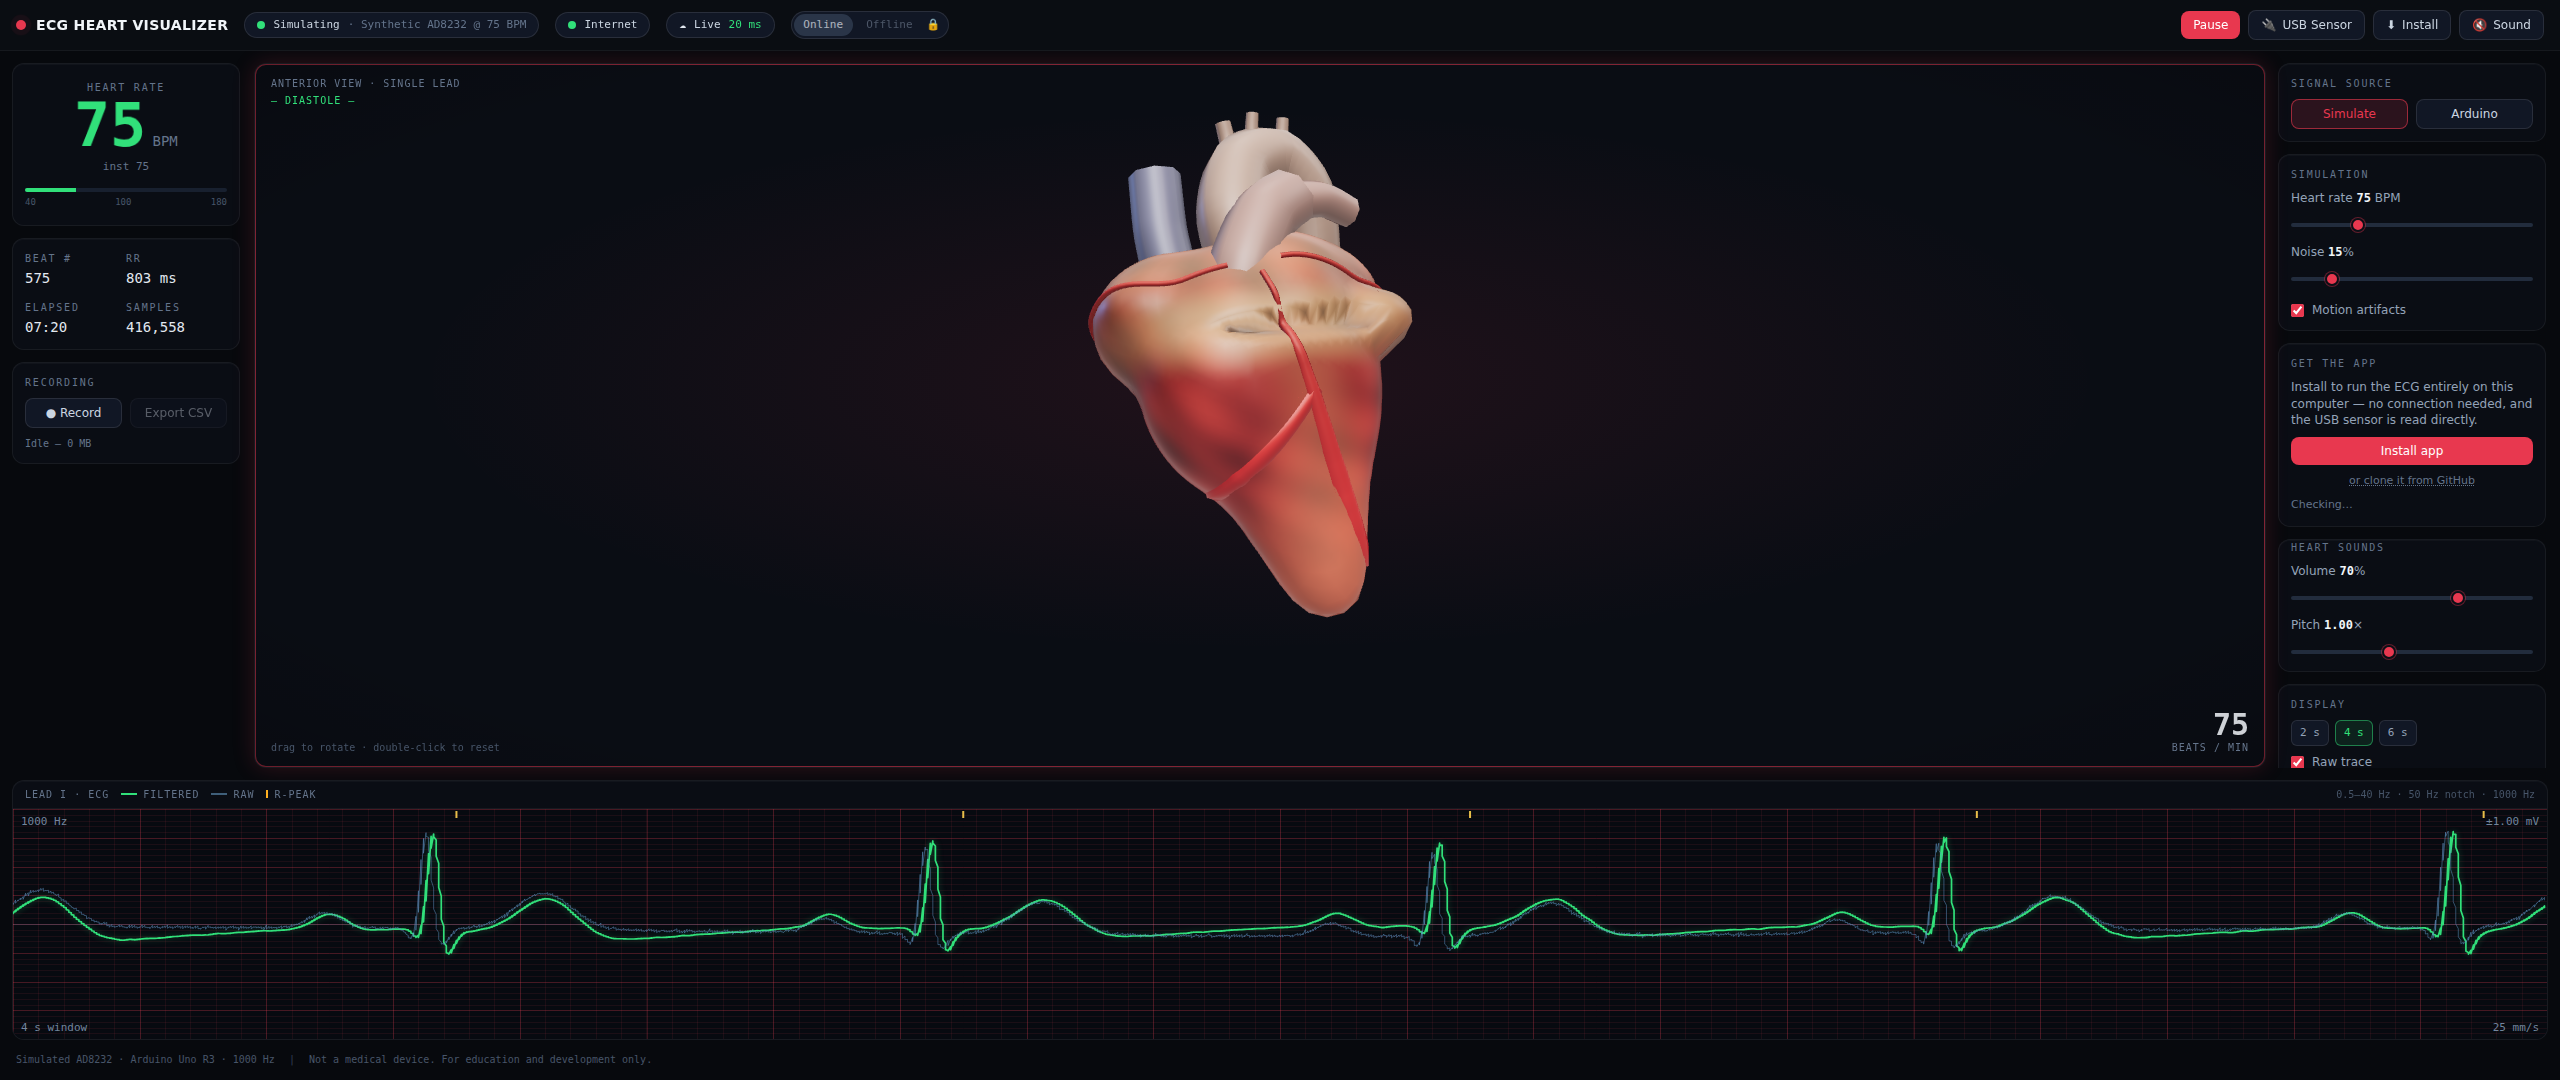
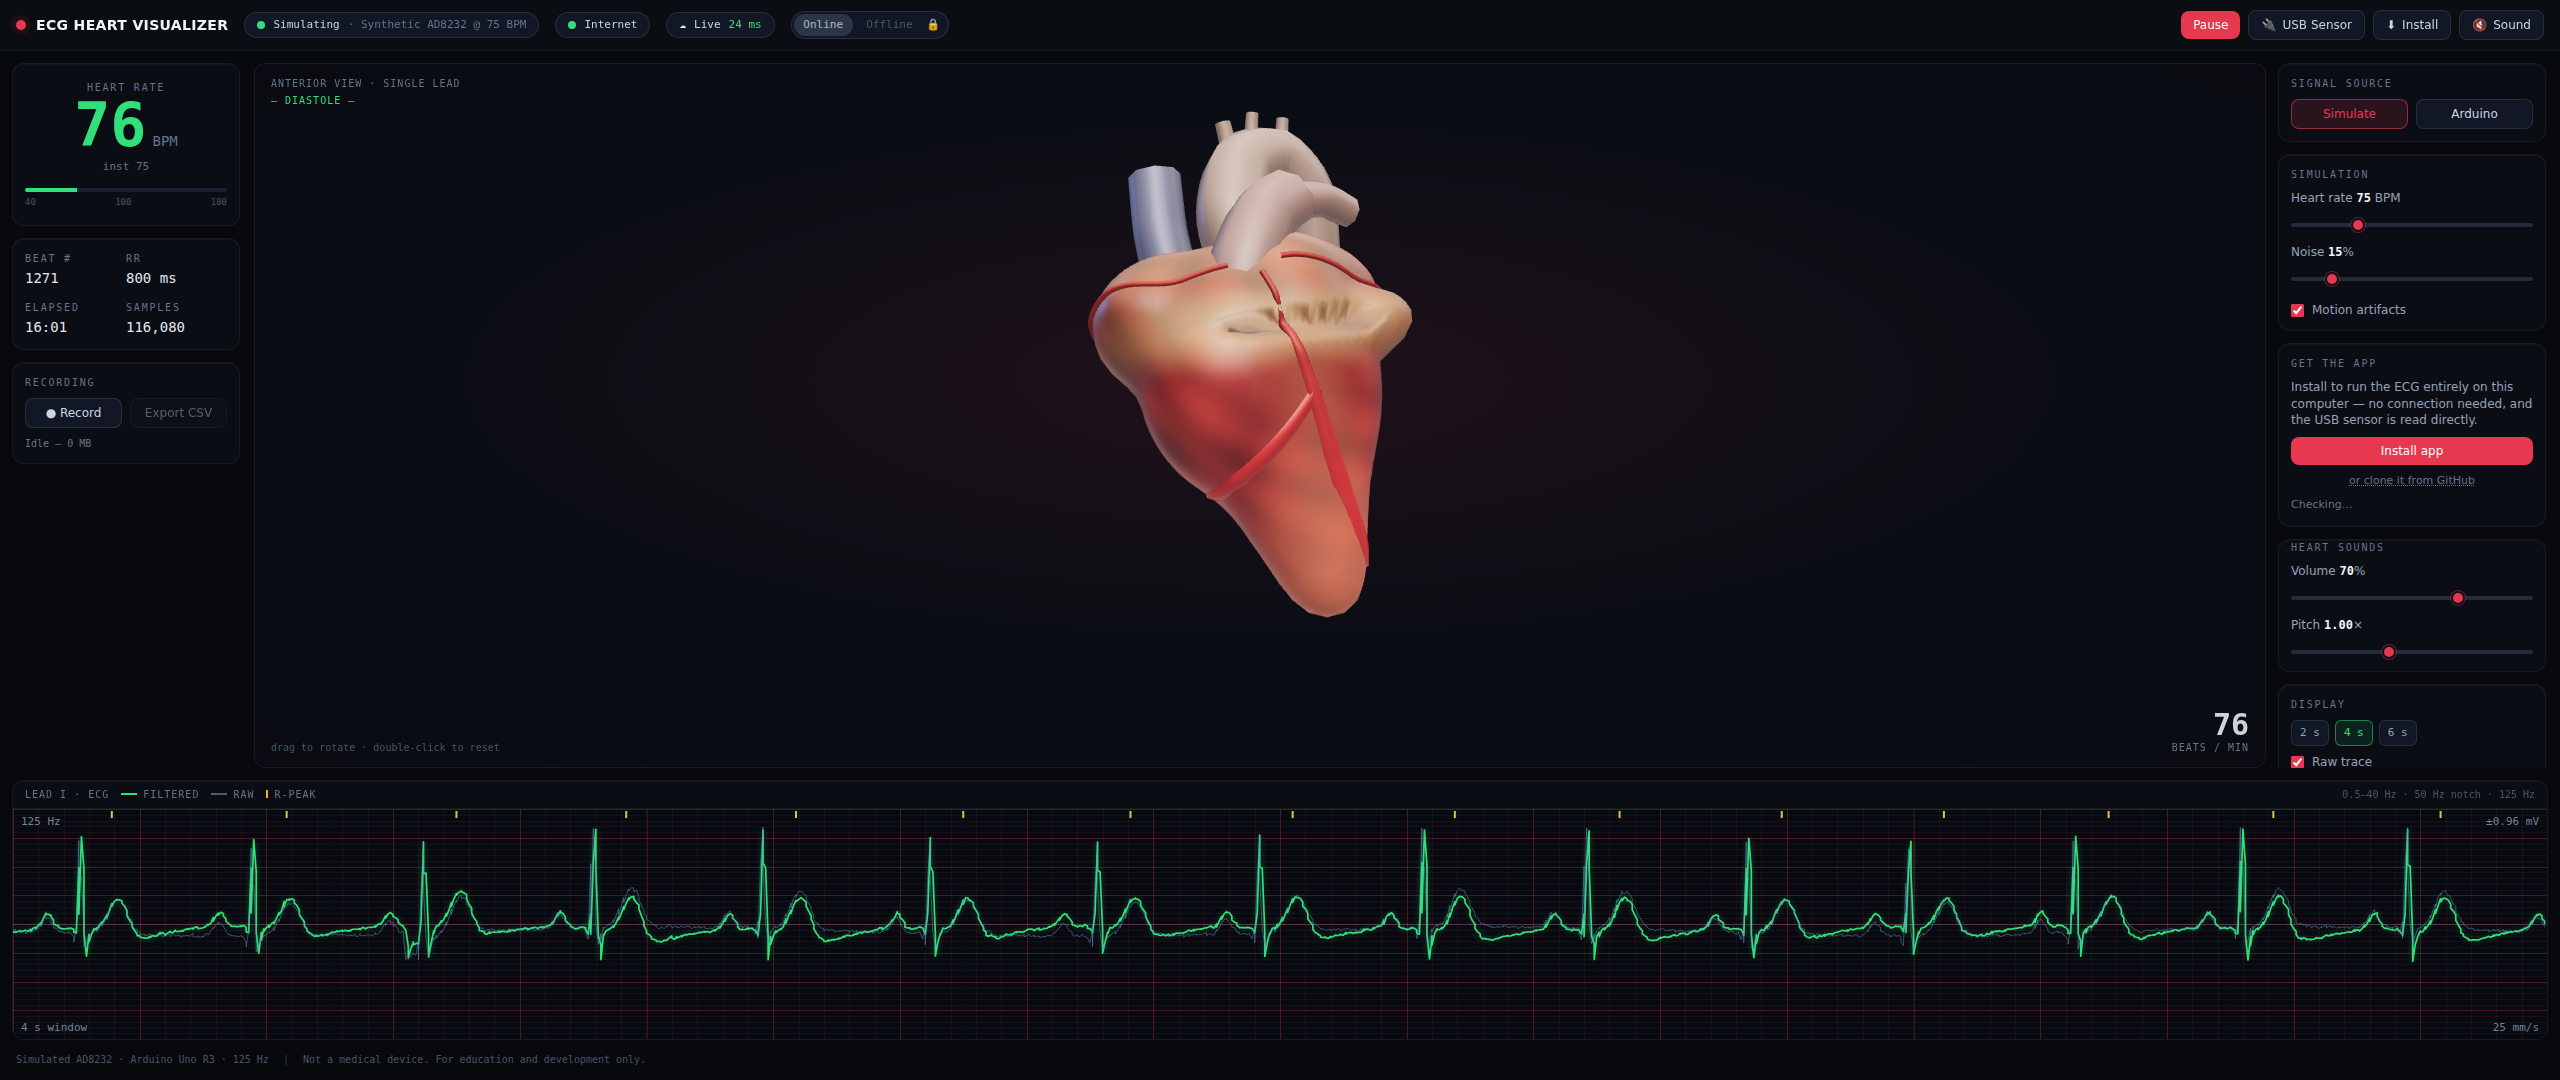
Run at 125 Hz to match the AD8232 rig, and fix what that exposed
The hardware delivers 125 Hz. The pipeline assumed 1000, and a rate mismatch
does not degrade a reading gracefully, it scales every interval by the ratio:
the heart rate came out 8x high. SAMPLE_RATE is now 125, coeffs.js is
regenerated from it, and the sketch constant matches.

Dropping the rate surfaced three latent bugs that 1000 Hz had been hiding:

- The simulator floored its beat template at 60 samples. At 1000 Hz that is
  1000 BPM and unreachable; at 125 Hz it is 125 BPM, so the slider silently
  capped there and rendered waves against a period the array could not hold
  (150 BPM read as 125, 180 as 187.5). The template length IS the beat period,
  so the floor must only guard degeneracy. Fixed identically in both the Python
  and JS simulators to keep them bit-equivalent.

- The recorder was constructed with a hardcoded 1000 Hz while the chart read
  the rate from the server, so every exported CSV wrote time_s on the wrong
  timebase: a 72 BPM recording exported as 606 BPM. It now seeds from the
  generated constant and follows the server, never mid-capture.

- selftest asserted a flat 2 BPM tolerance. An RR interval is measured in whole
  samples, so one sample is worth bpm^2/(60*fs) BPM: 0.5 BPM at 1000 Hz but 4.3
  at 125 Hz and 180 BPM, where the estimator can only return 178.57 or 182.93.
  The tolerance is now one quantum or 2 BPM, whichever is larger, which leaves
  1000 Hz behaviour identical (still 20/20 there).
[…]

Changed region(s): [[0.0, 0.7639, 1.0, 0.8861], [0.0938, 0.9778, 0.25, 1.0], [0.0312, 0.0917, 0.0625, 0.1222]]

diff --git a/frontend/src/dsp/coeffs.js b/frontend/src/dsp/coeffs.js
@@ -8,7 +8,7 @@
 // the server's DSP cannot drift apart -- verify_dsp.py asserts they agree
 // sample-for-sample.
 
-export const SAMPLE_RATE = 1000;
+export const SAMPLE_RATE = 125;
 export const MAINS_HZ = 50.0;
 export const ADC_MAX = 1023;
 export const ADC_VREF = 5.0;
@@ -24,31 +24,29 @@ export const BPM_MAX = 240.0;
 // Display chain: 0.5 Hz high-pass -> 50 Hz notch ->
 // 100 Hz notch -> 40 Hz low-pass.
 export const ECG_SOS = [
-    [0.9977810241029411, -1.9955620482058822, 0.9977810241029411, 1.0, -1.995557124345789, 0.9955669720659747],
-    [0.9947912376593769, -1.8922053778585424, 0.9947912376593768, 1.0, -1.8922053778585421, 0.9895824753187538],
-    [0.9896361753628921, -1.6012649682336104, 0.989636175362892, 1.0, -1.6012649682336102, 0.9792723507257837],
-    [0.0001832160233696094, 0.0003664320467392188, 0.0001832160233696094, 1.0, -1.5752399777881516, 0.6263342591591414],
-    [1.0, 2.0, 1.0, 1.0, -1.7688278599237215, 0.8262013329476159],
+    [0.982385438526092, -1.964770877052184, 0.982385438526092, 1.0, -1.9644605802052324, 0.9650811738991353],
+    [0.95977356895352, 1.5529462560705858, 0.95977356895352, 1.0, 1.552946256070586, 0.9195471379070398],
+    [0.20561452486753623, 0.41122904973507246, 0.20561452486753623, 1.0, 0.4638241941309157, 0.08935357665234994],
+    [1.0, 2.0, 1.0, 1.0, 0.6325354049721967, 0.4855945732990751],
   ];
 
 // Unit-step steady state, scaled by the first sample to prime the delay line.
 // Without priming, the high-pass rings for seconds at startup.
 export const ECG_ZI = [
-    [-0.9977810241128645, 0.9977810241128205],
+    [-0.9823854385260364, 0.9823854385260384],
     [0.0, 0.0],
     [0.0, 0.0],
-    [0.0, -0.0],
-    [0.0, -0.0],
+    [0.0, 0.0],
   ];
 
 // QRS detector front end: 5-15 Hz band-pass.
 export const QRS_SOS = [
-    [2.9146494465697647e-05, 5.8292988931395294e-05, 2.9146494465697647e-05, 1.0, -1.9361916025752068, 0.9390625058174927],
-    [1.0, 0.0, -1.0, 1.0, -1.9473993593261043, 0.9552104892146577],
-    [1.0, -2.0, 1.0, 1.0, -1.9820685782158847, 0.9831558692142692],
+    [0.01018257673643693, 0.02036515347287386, 0.01018257673643693, 1.0, -1.439786547927553, 0.5913983513994713],
+    [1.0, 0.0, -1.0, 1.0, -1.2823329392866671, 0.7030006898068755],
+    [1.0, -2.0, 1.0, 1.0, -1.8049684603984224, 0.8702175029734399],
   ];
 export const QRS_ZI = [
-    [0.04058036487658208, -0.03810572301365439],
-    [-0.04060951137104962, -0.0406095113710485],
+    [0.25846607734603894, -0.14869579439362612],
+    [-0.2686486540824759, -0.2686486540824759],
     [-0.0, 0.0],
   ];

diff --git a/frontend/src/main.js b/frontend/src/main.js
@@ -21,6 +21,7 @@ import { Link, LinkMode } from './link.js';
 import { ModeManager, AppMode } from './mode.js';
 import { UpdateManager, UpdateKind } from './updates.js';
 import { WebSerialSensor, webSerialUnavailableReason } from './webserial.js';
+import { SAMPLE_RATE } from './dsp/coeffs.js';
 
 // ---------------------------------------------------------------------------
 // DOM
@@ -950,6 +951,13 @@ function onBatch(msg) {
 function onHello(msg) {
   state.serverConfig = msg;
   chart.sampleRate = msg.fs;
+  // The recorder writes time_s as index / sampleRate, so a stale rate here
+  // silently scales every timestamp in the exported CSV and the r_peak column
+  // reads as a wildly wrong heart rate. Never move it mid-capture: that would
+  // corrupt the timebase of the recording already in progress.
+  if (recorder && !recorder.recording && typeof msg.fs === 'number') {
+    recorder.sampleRate = msg.fs;
+  }
   dom.filterInfo.textContent = `0.5–40 Hz · ${msg.mains_hz} Hz notch · ${msg.fs} Hz`;
 
   // Seed the controls from the server's actual state. The server owns these
@@ -1333,7 +1341,10 @@ function hideBoot() {
 async function boot() {
   chart = new ECGChart(dom.ecgCanvas, { windowSeconds: 4, sampleRate: 1000 });
   audio = new HeartAudio();
-  recorder = new Recorder(1000, 300);
+  // Seeded from the generated DSP constant rather than a literal, so the
+  // exported CSV's time base follows the configured sample rate. onHello
+  // corrects it to whatever the server actually reports.
+  recorder = new Recorder(SAMPLE_RATE, 300);
 
   // ?quality=low|medium|high overrides the auto-detected level. Useful for
   // troubleshooting on weak hardware, and for pinning the level in tests.

diff --git a/frontend/src/dsp/simulator.js b/frontend/src/dsp/simulator.js
@@ -195,7 +195,12 @@ export class SimulatedSource {
     let jitter = 1.0 + this._gauss() * 0.025;
     jitter = Math.min(Math.max(jitter, 0.9), 1.1);
     const rrSeconds = (60.0 / this.bpm) * jitter;
-    const n = Math.max(Math.round(rrSeconds * fs), 60);
+    // The template length IS the beat period, so this floor must never bind
+    // inside the supported rate range: a floor longer than the RR interval
+    // does not shorten the beat, it pins the simulated rate at the floor. At
+    // 1000 Hz a 60-sample floor is 1000 BPM and unreachable; at 125 Hz it is
+    // 125 BPM, which capped the simulator mid-slider. Guard degeneracy only.
+    const n = Math.max(Math.round(rrSeconds * fs), 2);
 
     const periodMs = rrSeconds * 1000.0;
     const rIndexMs = (Math.floor(0.3 * n) / fs) * 1000.0;

diff --git a/backend/selftest.py b/backend/selftest.py
@@ -62,10 +62,25 @@ def run_case(bpm: float, noise: float, seconds: float = 20.0) -> dict:
     expected_beats = (seconds - 2.0) * bpm / 60.0
     err = abs(measured - bpm)
 
-    # Pass criteria: rate within 2 BPM, and beat count within 8% of expected
-    # (which catches both missed beats and double-counted T waves).
+    # Pass criteria: rate within tolerance, and beat count within 8% of
+    # expected (which catches both missed beats and double-counted T waves).
+    #
+    # The tolerance cannot be a flat 2 BPM at every sample rate. An RR interval
+    # is measured in whole samples, so one sample of quantisation is worth
+    # bpm^2 / (60 * fs) BPM, and that grows with the square of the rate: at
+    # 1000 Hz it is 0.5 BPM at 180 BPM and irrelevant, but at 125 Hz it is
+    # 4.3 BPM, and demanding 2 BPM there asks for precision the sample rate
+    # cannot express. The estimator is a median of whole-sample RR intervals,
+    # so it can only ever return 60*fs/k for integer k: at 180 BPM and 125 Hz
+    # the only achievable readings either side are 178.57 and 182.93, and RR
+    # jitter decides which one the median lands on. Allow one full quantum, or
+    # 2 BPM, whichever is larger, so this measures the detector rather than the
+    # timebase. At 1000 Hz the quantum is under 0.6 BPM across the whole range,
+    # so this leaves the original tolerance in force exactly as before.
+    quantum = (bpm * bpm) / (60.0 * fs)
+    tolerance = max(2.0, quantum)
     count_ratio = len(warm) / expected_beats
-    ok = err <= 2.0 and 0.92 <= count_ratio <= 1.08
+    ok = err <= tolerance and 0.92 <= count_ratio <= 1.08
 
     return {
         "bpm_set": bpm,

diff --git a/backend/smoketest.py b/backend/smoketest.py
@@ -2,13 +2,15 @@
 Live smoke test against a RUNNING server.
 
 `selftest.py` proves the signal chain in isolation. This proves the assembled
-service: that the pipeline pump actually runs at 1000 Hz in real time, that the
+service: that the pipeline pump actually runs at the configured rate in real
+time, that the
 simulator and detector agree, and that the source swap works over HTTP.
 
     .venv/bin/python run_server.py &
     .venv/bin/python smoketest.py
 
-Uses only the standard library, so it can run anywhere the server can.
+Uses only the standard library plus the project's own config, so it can run
+anywhere the server can.
 """
 
 from __future__ import annotations
@@ -18,6 +20,8 @@ import sys
 import time
 import urllib.error
 import urllib.request
+
+import config
 
 BASE = "http://127.0.0.1:8000"
 
@@ -59,7 +63,11 @@ def main() -> int:
     check("Server reachable", health.get("ok") is True, health.get("version", ""))
 
     cfg = call("/api/config")
-    check("Config exposes sample rate", cfg.get("fs") == 1000, f"{cfg.get('fs')} Hz")
+    # Assert the API agrees with the configuration, not a literal: the point
+    # is that the browser is told the same rate the pipeline runs at, whatever
+    # that rate is. A hardcoded number here just fails on every rate change.
+    check("Config exposes sample rate", cfg.get("fs") == config.SAMPLE_RATE,
+          f"{cfg.get('fs')} Hz, config says {config.SAMPLE_RATE} Hz")
     check("Config exposes ADC constants",
           cfg.get("adc_max") == 1023, str(cfg.get("adc_max")))
 

diff --git a/backend/config.py b/backend/config.py
@@ -15,8 +15,18 @@ See ../instructions.txt for the copy-paste hardware swap guide.
 # ---------------------------------------------------------------------------
 
 # Samples per second. The Arduino sketch paces analogRead() to this exact rate.
-# If you change it here, change SAMPLE_RATE_HZ in the .ino sketch to match.
-SAMPLE_RATE = 1000
+# If you change it here, change SAMPLE_RATE_HZ in the .ino sketch to match,
+# and re-run export_dsp.py, or the browser's filter coefficients will still be
+# designed for the old rate and offline mode will disagree with the server.
+#
+# 125 Hz is what the AD8232 rig actually delivers. Above Nyquist-safety this is
+# a real trade: 125 Hz resolves a QRS complex well enough to time R-peaks (the
+# detector band tops out at 15 Hz) but it is below the 250-500 Hz a diagnostic
+# recorder would use, so fine morphology is coarser than the display suggests.
+# Rate and hardware must agree; a mismatch does not degrade the reading, it
+# scales every interval by the ratio and reports a heart rate that is wrong by
+# that factor.
+SAMPLE_RATE = 125
 
 # Arduino Uno R3 ADC characteristics. The AD8232 output pin goes to A0.
 ADC_BITS = 10  # analogRead() returns 0..1023

diff --git a/backend/ecg/simulator.py b/backend/ecg/simulator.py
@@ -181,7 +181,13 @@ class SimulatedSource(ECGSource):
         jitter = 1.0 + self._rng.normal(0.0, 0.025)
         jitter = float(np.clip(jitter, 0.9, 1.1))
         rr_seconds = (60.0 / self.bpm) * jitter
-        n = max(int(round(rr_seconds * fs)), 60)
+        # The template length IS the beat period, so this floor must never bind
+        # inside the supported rate range: a floor longer than the RR interval
+        # does not shorten the beat, it pins the simulated rate at the floor and
+        # renders the waves against a period the array cannot hold. At 1000 Hz
+        # a 60-sample floor is 1000 BPM and is unreachable, but at 125 Hz it is
+        # 125 BPM, which capped the simulator mid-slider. Guard degeneracy only.
+        n = max(int(round(rr_seconds * fs)), 2)
 
         t_ms = (np.arange(n, dtype=np.float64) / fs) * 1000.0
         r_index_ms = t_ms[int(0.30 * n)]
